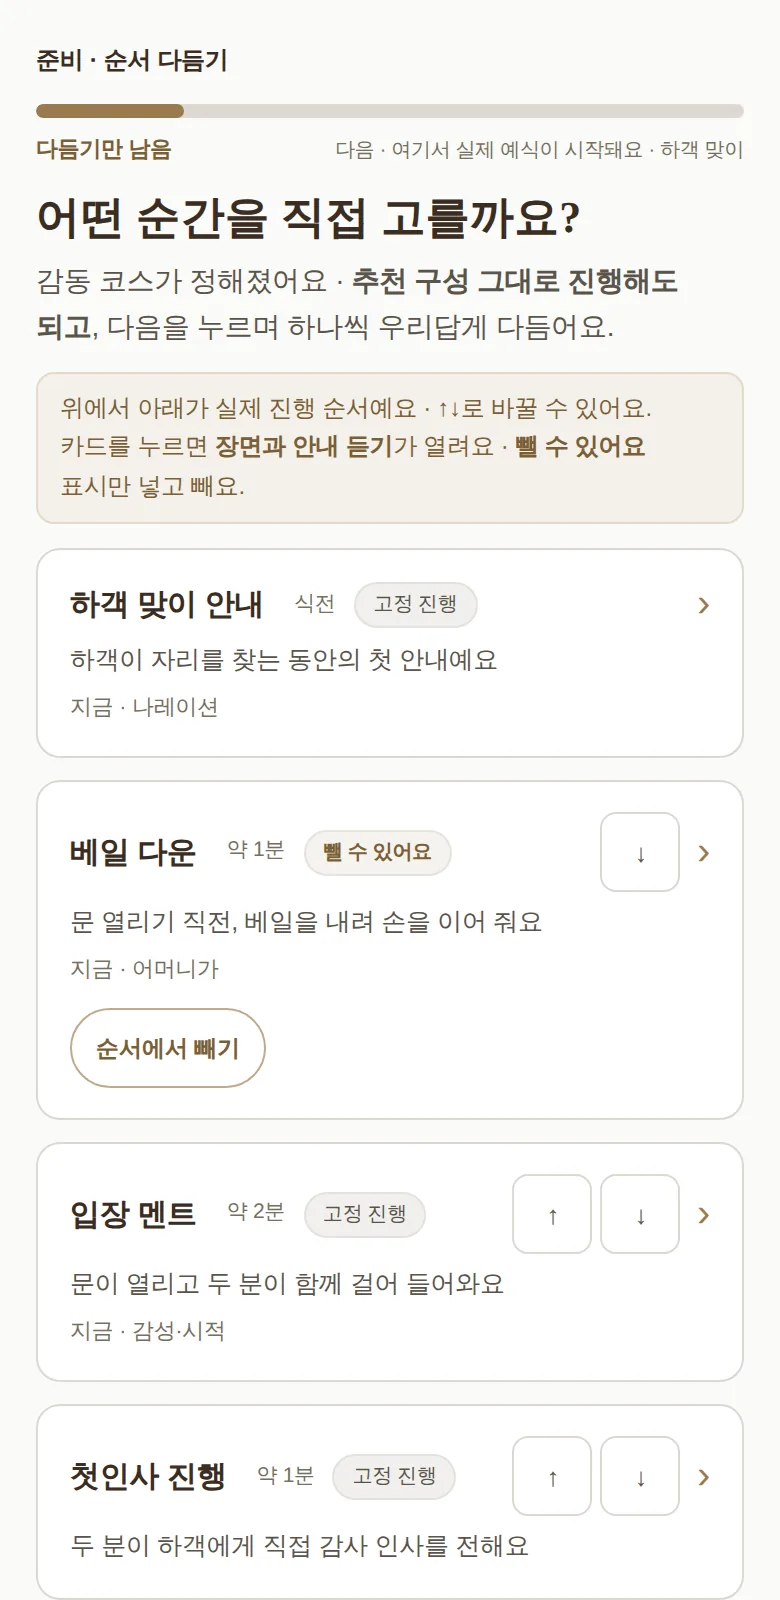
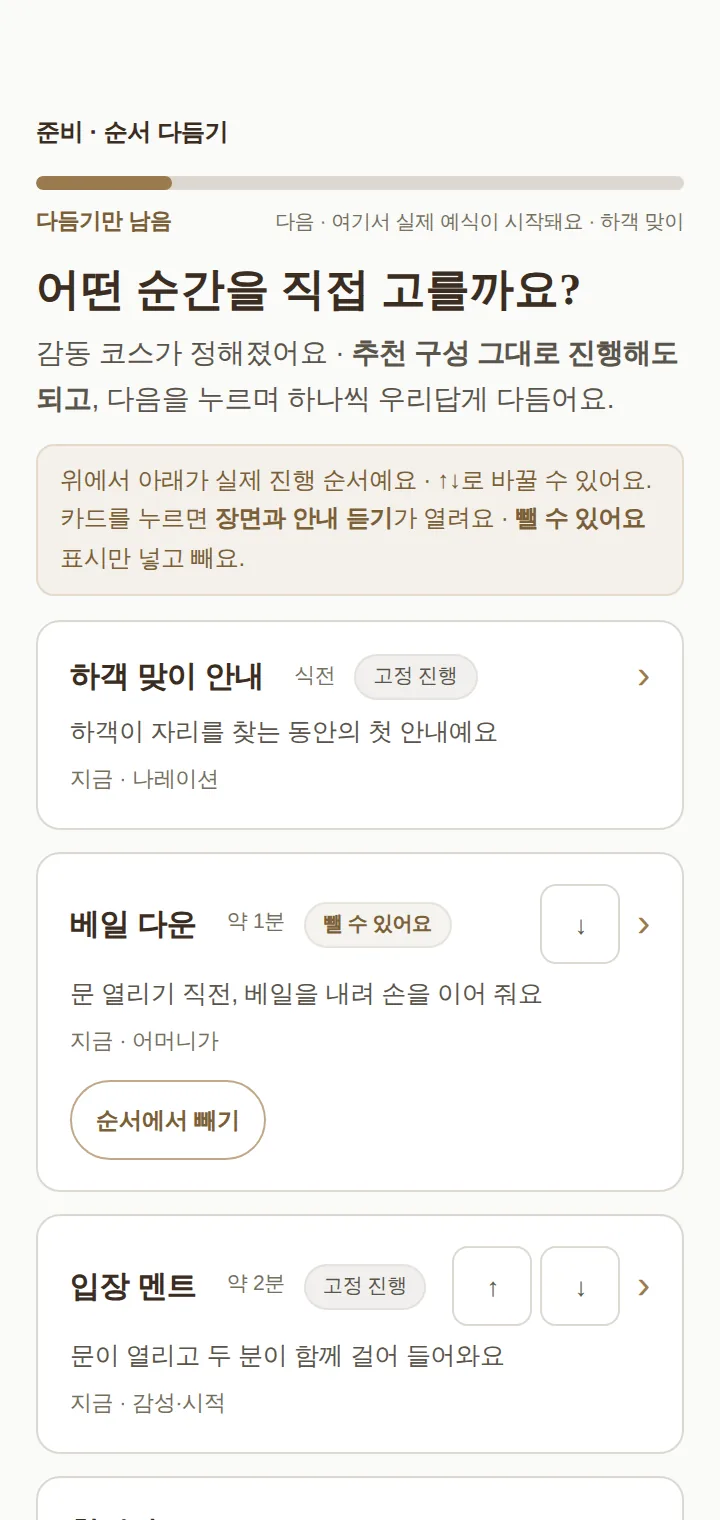
fix(home): 체험 링크 제거(경쟁 노출 차단) · 폰 목업 5번째 화면 비율 교정
■ 체험 링크 제거 → 상담 시연으로 전환 (PRM_DEMO_GATE · 사용자 지시)
'Ceremony Builder' 공개 체험 카드를 제거 — 경쟁사가 도구를 그대로 열어볼 수 있는
노출 경로였다. 대신 한 줄로 바꾼다:
"이 화면들은 캡처가 아니라 실제로 움직이는 도구입니다.
 상담 자리에서 직접 열어, 두 분 손으로 눌러보시게 해드려요."
소유 효과(만져보면 내 것 같다)는 상담 자리로 옮기고, 공개 화면에는 희소성만 남긴다 —
'상담에서만 열어 보여준다'가 그 자체로 상담 유인이 된다.
★홈에 order-preview 공개 링크 복원 금지(가드 고정) · order-preview는 종전대로 noindex.
홈 문서에서 order-preview 참조 0건 확인.

■ 폰 목업 5번째 화면(식순 위저드) 비율 교정 (PRM_JR5 자산 교체)
기존 캡처가 780×1600(9:18.5)이라 9:19 프레임에서 object-fit:cover가 좌우를 잘라
제목 첫 글자와 상단 라벨이 잘려 보였다(사용자 실기기 스크린샷으로 확인).
→ 360×760 뷰포트(정확히 9:19) @2x = 720×1520으로 재캡처: 크롭 0 ·
   노치와 겹치던 상단 진행 라벨은 캡처 시 상단 여백 36px로 클리어 ·
   뷰포트가 좁아진 만큼 목업 안 글자도 상대적으로 커져 가독성 개선.

검증 — 414px 실측: 5번째 슬라이드 프레임 안 크롭 0(제목·라벨 전부 보임) ·
order-preview 링크 0 · 가로 넘침 0 · pageerror 0 · JSON-LD 7 유효 · merge-guard ALL MARKERS OK.

Claude-Session: https://claude.ai/code/session_013CMtuzKyVrXGxCniRsQ9Yk

diff --git a/index.html b/index.html
@@ -6067,23 +6067,11 @@ body {
     </ol>
   </div>
 </div>
-<!-- [PRM_TRY] 식순 위저드 체험 링크(2026-07-31) — 갤러리 미리보기와 같은 '먼저 써보게 하기' 패턴.
-     로그인 없이 열리는 실제 도구라, 말로 하는 홍보보다 강한 근거가 된다. 전환 CTA(상담 예약) 단일성은 유지 — 이것은 콘텐츠 링크. -->
-<div class="preview-link-wrap reveal" style="max-width:520px;margin:56px auto 0;text-align:center">
-  <div style="margin-bottom:16px">
-    <span style="font-family:var(--serif);font-style:italic;font-size:11px;letter-spacing:0.28em;text-transform:uppercase;color:var(--seal)">Try It</span>
-  </div>
-  <a href="order-preview.html" aria-label="식순 만들기 미리 체험하기" style="display:block;padding:28px 24px 24px;background:rgba(107,42,36,0.06);border:1px solid rgba(107,42,36,0.55);border-radius:6px;text-decoration:none;transition:background 0.4s var(--ease),border-color 0.4s var(--ease)">
-    <span style="display:inline-flex;align-items:baseline;gap:14px;padding:6px 0 8px;border-bottom:1px solid var(--seal)">
-      <span style="font-family:var(--serif);font-size:18px;font-weight:500;letter-spacing:0.1em;color:var(--seal)">Ceremony Builder</span>
-      <span style="color:var(--light);font-size:11px">·</span>
-      <span style="font-family:var(--serif-ko);font-size:11.5px;color:var(--sub);letter-spacing:0.06em">식순 만들기 체험</span>
-      <span style="font-size:14px;color:var(--seal);display:inline-block;transition:transform 0.3s var(--ease)">↗</span>
-    </span>
-    <span style="display:block;margin-top:18px;font-family:var(--serif-ko);font-size:12.5px;font-weight:300;color:var(--sub);letter-spacing:0.02em;line-height:1.7;word-break:keep-all">
-      두 분이 실제로 쓰실 도구를 지금 눌러보세요. 로그인 없이 열립니다.
-    </span>
-  </a>
+<!-- [PRM_DEMO_GATE] 식순 도구 공개 체험 링크 제거 — 2026-07-31 사용자 지시(경쟁사 노출 우려).
+     ★order-preview.html 공개 링크를 홈에 다시 달지 말 것. 대신 '상담에서 직접' 한 줄로 —
+     도구는 상담 자리에서만 열어 보여주는 것으로(희소성·상담 유인). 페이지 자체는 noindex 유지. -->
+<div class="reveal" style="text-align:center;margin-top:40px">
+  <p style="font-family:var(--serif-ko);font-size:12.5px;font-weight:300;color:var(--sub);letter-spacing:0.02em;line-height:1.8;word-break:keep-all;margin:0">이 화면들은 캡처가 아니라 실제로 움직이는 도구입니다.<br class="mobile-br"> 상담 자리에서 직접 열어, 두 분 손으로 눌러보시게 해드려요.</p>
 </div>
 <div class="reveal"><p class="t-emph" style="margin-top:44px;text-align:center;word-break:keep-all;letter-spacing:0.01em">좋은 예식은 당일이 아니라, <br class="br-mo">준비하는 동안에도 정중합니다.</p></div>
 <div class="cta-block reveal">
